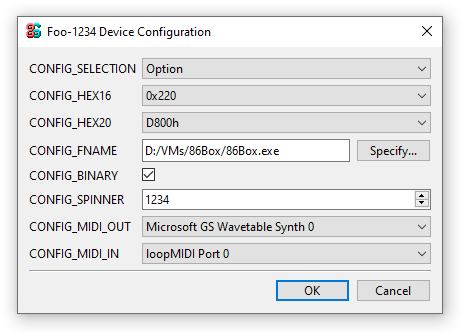
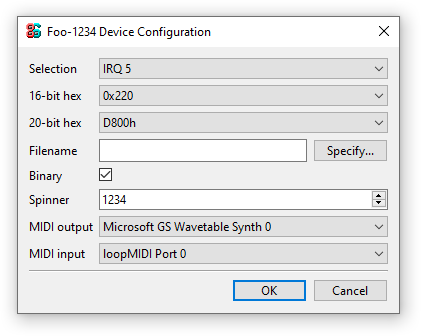
dev/api/device: Finally update the screenshot, also CONFIG_END

Changed region(s): [[0.0309, 0.0595, 0.6793, 0.9226], [0.5558, 0.0595, 0.9572, 0.9226]]

diff --git a/_static/css/86box.css b/_static/css/86box.css
@@ -36,7 +36,8 @@ div.admonition > p:nth-child(2) {
 .rst-content table.docutils li > p {
 	font-size: inherit;
 }
-.rst-content :not(.bit-table) > .wy-table-responsive > table.docutils td:not(:last-child) > p:only-child > code:only-child {
+.rst-content :not(.bit-table) > .wy-table-responsive > table.docutils td:not(:last-child) > p:only-child > code:only-child,
+.rst-content :not(.bit-table) > .wy-table-responsive > table.docutils tr > td:only-child > p:only-child > code:only-child {
 	font-size: inherit;
 
 	/* Additional tweaks for literal values alone in table cells. */

diff --git a/dev/api/device.rst b/dev/api/device.rst
@@ -225,7 +225,7 @@ Devices can have any number of user-facing configuration options, usually access
 .. figure:: images/deviceconfig.png
    :align: center
 
-   All option types currently configurable through the user interface. [TO BE UPDATED ONCE I GET OUT OF HIDPI]
+   All option types currently configurable through the user interface.
 
 These options are stored in the emulated machine's configuration file, in a section identified by the device's ``name``:
 
@@ -242,7 +242,7 @@ These options are stored in the emulated machine's configuration file, in a sect
     midi_in = 0
 
 
-Configuration options can be specified in the ``config`` member of ``device_t``, as a pointer to a ``const`` array of ``device_config_t`` objects terminated by an object of ``type`` ``-1``.
+Configuration options can be specified in the ``config`` member of ``device_t``, as a pointer to a ``const`` array of ``device_config_t`` objects terminated by an object of ``type`` ``CONFIG_END``.
 
 .. container:: toggle
 
@@ -283,10 +283,10 @@ Configuration options can be specified in the ``config`` member of ``device_t``,
             { "binary",    "Binary",      CONFIG_BINARY,    "", 1 /* checked by default */ },
             { "int",       "Integer",     CONFIG_INT,       "", 1234 },
             { "spinner",   "Spinner",     CONFIG_SPINNER,   "", 1234, "", { 1204, 1294, 10 } },
-            { "mac",       "MAC address", CONFIG_MAC,       "", 0 }
+            { "mac",       "MAC address", CONFIG_MAC,       "", 0 },
             { "midi_out",  "MIDI output", CONFIG_MIDI_OUT,  "", 0 },
             { "midi_in",   "MIDI input",  CONFIG_MIDI_IN,   "", 0 },
-            { "",          "",            -1 }
+            { "",          "",            CONFIG_END }
         };
 
         const device_t foo_device = {
@@ -321,7 +321,7 @@ Configuration options can be specified in the ``config`` member of ``device_t``,
       * ``CONFIG_MAC``: last 3 octets of a MAC address, currently **not visible nor configurable** in the user interface;
       * ``CONFIG_MIDI_OUT``: combobox containing a list of system MIDI output devices;
       * ``CONFIG_MIDI_IN``: combobox containing a list of system MIDI input devices;
-      * ``-1``: **mandatory** terminator to indicate the end of the option list.
+      * ``CONFIG_END``: **mandatory** terminator to indicate the end of the option list.
 
   * - ``default_string``
     - Default string value for a ``CONFIG_STRING`` option. Can be ``""`` if not applicable.
